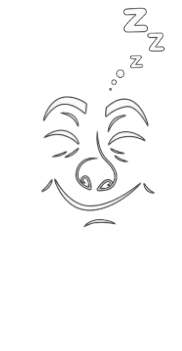
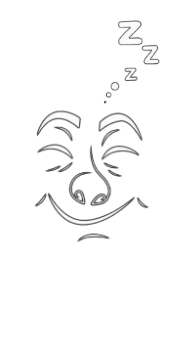
brush teeth

Changed region(s): [[0.1923, 0.0, 0.9066, 0.6838], [0.4121, 0.6838, 0.4396, 0.7123]]

diff --git a/speechLoops/mainLoop.py b/speechLoops/mainLoop.py
@@ -29,6 +29,33 @@ class MainLoop(SpeechLoop):
             self.handler.result = ""
             self.speak_text(f'Heute ist der {datetime.datetime.now().strftime("%d.%m.%Y")}', watchListSkip)
 
+        elif "name" in self.handler.result:
+            self.handler.result = ""
+            self.speak_text("Wie soll ich dich denn nennen?", watchListSkip)
+            while(1):
+                self.handler.result = self.listen()
+                tempName = self.handler.result
+                if not self.handler.result:
+                    print("no result")
+                    return
+                self.handler.result = ""
+                print("bestätige name")
+                self.speak_text(f'Habe ich dich richtig verstanden? Du heißt also {tempName}', watchListConfirmation)
+                if self.handler.result == "":
+                    print("name richtig?")
+                    self.handler.result = self.listen()
+                if any(x in self.handler.result for x in ("ja", "genau", "richtig")):
+                    self.handler.result = ""
+                    self.handler.user.name = tempName
+                    self.speak_text(f'Hallo {self.handler.user.name}, es freut mich dich kennenzulernen!', watchListSkip)
+                    break
+                elif any(x in self.handler.result for x in ("nein", "falsch", "nö")):
+                    self.handler.result = ""
+                    self.speak_text("Tut mir leid. Wie soll ich dich nennen?", watchListSkip)
+                else:
+                    self.handler.result = ""
+                    self.speak_text("Ich habe dich leider nicht verstanden. Wie soll ich dich nennen? Du kannst mir auch nur einen Spitznamen nennen mit dem ich dich ansprechen kann.", watchListSkip)
+
         elif any(x in self.handler.result for x in ("wetter", "temp", "regen", "kalt", "warm", "heiß")):
             self.handler.result = ""
             weather = self.find_weather()

diff --git a/speechLoops/welcomeLoop.py b/speechLoops/welcomeLoop.py
@@ -21,11 +21,11 @@ class WelcomeLoop(SpeechLoop):
 
         if (datetime.datetime.now().hour < 10):
             self.speak_text(f'Guten Morgen {self.handler.user.name}, komm putz dir die Zähne mit mir!', watchListSkipTask)
-            self.handler.imagePlayer.setImage("cat2")
-            #wait 3 min
+            self.handler.imagePlayer.setImage("zahn")
+            self.speak_text("zähne putzen", watchListSkipTask)
             self.speak_text(f'Und jetzt noch schnell die Haare kämmen und anziehen, dann kann der Tag losgehen!', watchListSkipTask)
             self.handler.result = ""
-        elif (datetime.datetime.now().hour > 12 and datetime.datetime.now().hour < 17) and datetime.date.isoweekday(datetime.datetime.now()) in range(1, 5) :
+        elif (datetime.datetime.now().hour > 12 and datetime.datetime.now().hour < 16) and datetime.date.isoweekday(datetime.datetime.now()) in range(1, 5) :
             if self.handler.user.school:
                 self.speak_text(f'Guten Tag {self.handler.user.name}, na wie war die Schule?', watchListDay)
                 if self.handler.result == "":

diff --git a/speechLoops/speechLoop.py b/speechLoops/speechLoop.py
@@ -150,10 +150,13 @@ class SpeechLoop():
 def speak_tale(command) -> None:
     """Method for speaking a text with Google's text-to-speech API."""
     print("in speak tale sprachausgabe")
-    tts = gTTS(text=command, lang='de', slow=False)
-    tts.save('tts.mp3')
-    playsound('tts.mp3')
-    os.remove('tts.mp3')
+    if command == "zähne putzen":
+        playsound('kinderlied-zähneputzen.mp3')
+    else:
+        tts = gTTS(text=command, lang='de', slow=False)
+        tts.save('tts.mp3')
+        playsound('tts.mp3')
+        os.remove('tts.mp3')
 
 def listenToKill(thread, pipeconnection:multiprocessing.Pipe, killswitch=None, watchListWords=watchListWords["abbruch"]) -> None:
     print(f'listenkill array: {watchListWords}')

diff --git a/ImagePlayer.py b/ImagePlayer.py
@@ -67,6 +67,7 @@ class ImagePlayer:
         self.imageDict.update({"zauberin": "zauberin.png"})
         self.imageDict.update({"zwerge": "zwerg.png"})
         self.imageDict.update({"zwergen": "zwerg.png"})
+        self.imageDict.update({"zahn": "zahn.png"})
 
     def start(self) -> None:
         self.fillDict()
